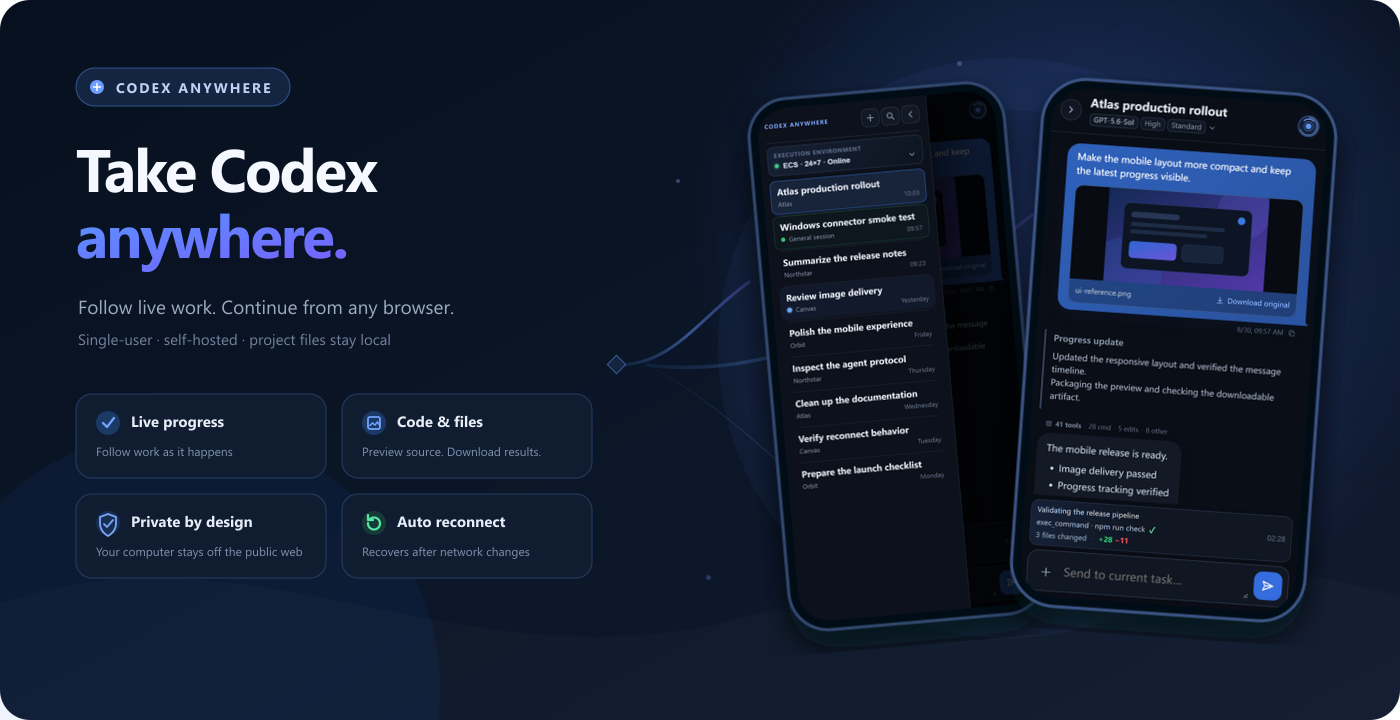
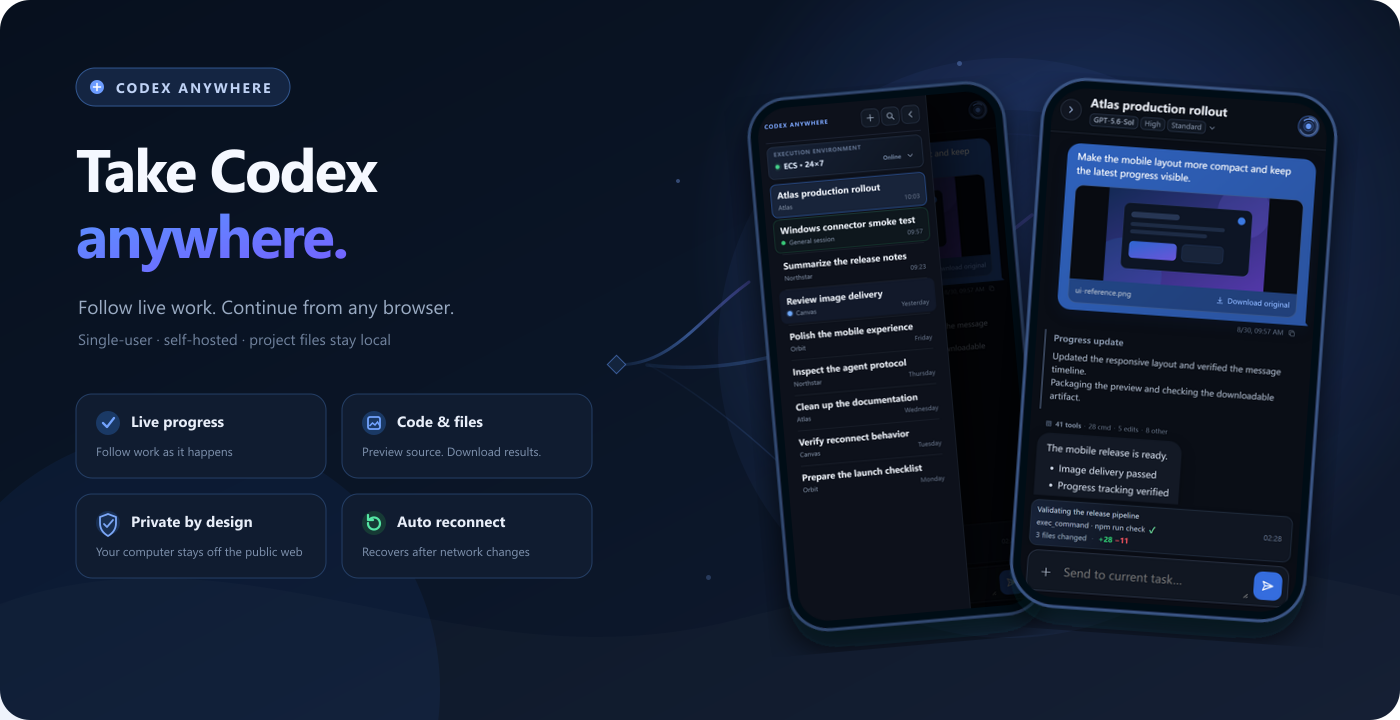
ui: replace native environment selector

Changed region(s): [[0.5529, 0.1833, 0.6757, 0.6722]]

diff --git a/web/src/styles.scss b/web/src/styles.scss
@@ -196,64 +196,47 @@ input:focus, textarea:focus { border-color: $focus !important; box-shadow: 0 0 0
 .environment-picker {
   position: relative;
   width: 100%;
-  height: 48px;
-  flex: 0 0 48px;
+  min-height: 50px;
+  flex: 0 0 auto;
   display: grid;
-  grid-template-columns: auto minmax(0, 1fr) auto;
-  grid-template-rows: 15px 19px;
-  align-items: center;
-  column-gap: 7px;
+  gap: 2px;
   margin: 1px 0 8px;
-  padding: 6px 10px;
+  padding: 6px 7px 7px;
   border: 1px solid #29354a;
   border-radius: 10px;
   background: linear-gradient(135deg, rgba(31, 47, 75, .54), rgba(14, 21, 33, .9));
 
   &:focus-within { border-color: #5884dd; box-shadow: 0 0 0 2px rgba(72, 120, 218, .14); }
-  select {
-    min-width: 0;
-    width: 100%;
-    height: 21px;
-    grid-column: 2;
-    grid-row: 2;
-    padding: 0 17px 0 0;
-    border: 0;
-    color: #dbe7fb;
-    background: transparent;
-    appearance: none;
-    font-size: 12px;
-    font-weight: 700;
-    cursor: pointer;
-    outline: 0;
-  }
-  option { color: #dbe7fb; background: #111827; }
-  svg {
-    width: 14px;
-    height: 14px;
-    grid-column: 3;
-    grid-row: 2;
-    fill: none;
-    stroke: #8094b5;
-    stroke-width: 1.7;
-    stroke-linecap: round;
-    stroke-linejoin: round;
-    pointer-events: none;
-  }
 }
 .environment-picker-label {
-  grid-column: 1 / -1;
-  grid-row: 1;
+  padding: 0 3px;
   color: #687a98;
   font-size: 9px;
   font-weight: 700;
   letter-spacing: .09em;
   text-transform: uppercase;
 }
-.environment-picker-status {
+.environment-picker-select .custom-select-trigger {
+  height: 25px;
+  padding: 0 3px;
+  border-color: transparent;
+  border-radius: 7px;
+  background: transparent;
+
+  > span { display: grid; grid-template-columns: 7px minmax(0, 1fr) auto; align-items: center; gap: 7px; }
+  strong { min-width: 0; color: #dbe7fb; font-size: 12px; font-weight: 700; @include truncate; }
+  small { color: #71839f; font-size: 9px; font-weight: 600; }
+  svg { width: 14px; height: 14px; }
+  &:hover { border-color: rgba(73, 103, 151, .5); background: rgba(23, 36, 57, .7); }
+}
+.environment-picker-select.custom-select.open .custom-select-trigger { background: rgba(16, 27, 44, .92); }
+.environment-picker-select .custom-select-menu { right: -8px; left: -8px; min-width: 0; }
+.environment-picker-select .custom-select-option { min-height: 40px; }
+.environment-picker-select .custom-select-option small { font-size: 9px; }
+.environment-status-dot {
   width: 7px;
   height: 7px;
-  grid-column: 1;
-  grid-row: 2;
+  display: block;
   border-radius: 50%;
   background: #536078;
   box-shadow: 0 0 0 3px rgba(83, 96, 120, .1);
@@ -485,7 +468,9 @@ input:focus, textarea:focus { border-color: $focus !important; box-shadow: 0 0 0
   > i { color: #87abf2; font-style: normal; font-size: 11px; font-weight: 800; text-align: center; }
   &.active { color: #e7eef9; background: #1a2638; }
   &.selected { color: #c6d8fb; }
+  &.has-leading { grid-template-columns: 12px minmax(0, 1fr) 15px; }
 }
+.custom-select-option-leading { display: grid; place-items: center; }
 @keyframes custom-select-open { from { opacity: 0; transform: translateY(-4px) scale(.985); } to { opacity: 1; transform: none; } }
 .permission-mode { position: relative; flex: 0 0 auto; }
 .permission-mode-summary {

diff --git a/web/src/session-sidebar.tsx b/web/src/session-sidebar.tsx
@@ -8,7 +8,7 @@ import {
 } from './app-utils';
 import type { ExecutionState, Session } from './app-types';
 import { t } from './i18n';
-import { SidebarIcon } from './ui-components';
+import { CustomSelect, SidebarIcon } from './ui-components';
 import { environmentDisplayName } from './execution-environments';
 
 type SessionSidebarProps = {
@@ -61,6 +61,16 @@ export const SessionSidebar = memo(function SessionSidebar({
     return [...matches]
       .sort((left, right) => sessionUpdatedAt(right.updatedAt) - sessionUpdatedAt(left.updatedAt));
   }, [search, sessions]);
+  const environmentOptions = useMemo(() => environmentIds.map((id) => {
+    const online = onlineEnvironmentIds.includes(id);
+    return {
+      value: id,
+      label: environmentDisplayName(id),
+      description: online ? t('在线', 'Online') : t('离线', 'Offline'),
+      leading: <span className={`environment-status-dot ${online ? 'online' : 'offline'}`} />,
+    };
+  }), [environmentIds, onlineEnvironmentIds]);
+  const selectedEnvironmentOnline = onlineEnvironmentIds.includes(environmentId);
 
   return (
     <aside className={`sidebar ${open ? 'open' : ''}`} aria-label={t('会话列表', 'Session list')}>
@@ -86,22 +96,23 @@ export const SessionSidebar = memo(function SessionSidebar({
           </button>
         </div>
       </div>
-      <label className="environment-picker">
+      <div className="environment-picker">
         <span className="environment-picker-label">{t('执行环境', 'Execution environment')}</span>
-        <span className={`environment-picker-status ${onlineEnvironmentIds.includes(environmentId) ? 'online' : 'offline'}`} aria-hidden="true" />
-        <select
+        <CustomSelect
+          className="environment-picker-select"
           value={environmentId}
-          onChange={(event) => onEnvironmentChange(event.target.value)}
-          aria-label={t('切换执行环境', 'Switch execution environment')}
-        >
-          {environmentIds.map((id) => (
-            <option value={id} key={id}>
-              {environmentDisplayName(id)} · {onlineEnvironmentIds.includes(id) ? t('在线', 'Online') : t('离线', 'Offline')}
-            </option>
-          ))}
-        </select>
-        <svg viewBox="0 0 16 16" aria-hidden="true"><path d="m4 6 4 4 4-4" /></svg>
-      </label>
+          options={environmentOptions}
+          onChange={onEnvironmentChange}
+          ariaLabel={t('切换执行环境', 'Switch execution environment')}
+          triggerContent={(
+            <>
+              <span className={`environment-status-dot ${selectedEnvironmentOnline ? 'online' : 'offline'}`} aria-hidden="true" />
+              <strong>{environmentDisplayName(environmentId)}</strong>
+              <small>{selectedEnvironmentOnline ? t('在线', 'Online') : t('离线', 'Offline')}</small>
+            </>
+          )}
+        />
+      </div>
       {searchOpen && (
         <label className="compact-search session-search-panel">
           <span className="compact-search-icon"><SidebarIcon name="search" /></span>

diff --git a/web/src/promo-main.tsx b/web/src/promo-main.tsx
@@ -2,7 +2,7 @@ import { createRoot } from 'react-dom/client';
 import { MessageBubble } from './message-bubble';
 import type { TimelineItem } from './history-utils';
 import { PresenceIndicator } from './presence-indicator';
-import { SidebarIcon } from './ui-components';
+import { CustomSelect, SidebarIcon } from './ui-components';
 import './styles.scss';
 import './promo.scss';
 
@@ -180,14 +180,26 @@ function SessionDrawerPreview() {
             <button className="sidebar-tool mobile-only" type="button" tabIndex={-1}><SidebarIcon name="panel-close" /></button>
           </div>
         </div>
-        <label className="environment-picker">
+        <div className="environment-picker">
           <span className="environment-picker-label">Execution environment</span>
-          <span className="environment-picker-status online" aria-hidden="true" />
-          <select value="ecs" onChange={() => {}} tabIndex={-1} aria-label="Execution environment">
-            <option value="ecs">ECS · 24×7 · Online</option>
-          </select>
-          <svg viewBox="0 0 16 16" aria-hidden="true"><path d="m4 6 4 4 4-4" /></svg>
-        </label>
+          <CustomSelect
+            className="environment-picker-select"
+            value="ecs"
+            onChange={() => {}}
+            ariaLabel="Execution environment"
+            options={[{
+              value: 'ecs', label: 'ECS · 24×7', description: 'Online',
+              leading: <span className="environment-status-dot online" />,
+            }]}
+            triggerContent={(
+              <>
+                <span className="environment-status-dot online" aria-hidden="true" />
+                <strong>ECS · 24×7</strong>
+                <small>Online</small>
+              </>
+            )}
+          />
+        </div>
         <nav className="session-list">
           {sessions.map((session) => (
             <button

diff --git a/web/src/ui-components.tsx b/web/src/ui-components.tsx
@@ -8,6 +8,7 @@ export type CustomSelectOption = {
   value: string;
   label: string;
   description?: string;
+  leading?: ReactNode;
 };
 
 export function CustomSelect({
@@ -99,6 +100,9 @@ export function CustomSelect({
     <div
       className={`custom-select${open ? ' open' : ''}${className ? ` ${className}` : ''}`}
       ref={rootRef}
+      onBlur={(event) => {
+        if (!event.currentTarget.contains(event.relatedTarget as Node | null)) setOpen(false);
+      }}
     >
       <button
         ref={triggerRef}
@@ -128,11 +132,12 @@ export function CustomSelect({
               role="option"
               tabIndex={-1}
               aria-selected={index === selectedIndex}
-              className={`custom-select-option${index === activeIndex ? ' active' : ''}${index === selectedIndex ? ' selected' : ''}`}
+              className={`custom-select-option${option.leading ? ' has-leading' : ''}${index === activeIndex ? ' active' : ''}${index === selectedIndex ? ' selected' : ''}`}
               title={option.label}
               onPointerMove={() => setActiveIndex(index)}
               onClick={() => choose(index)}
             >
+              {option.leading && <span className="custom-select-option-leading" aria-hidden="true">{option.leading}</span>}
               <span><strong>{option.label}</strong>{option.description && <small>{option.description}</small>}</span>
               {index === selectedIndex && <i aria-hidden="true">✓</i>}
             </button>

diff --git a/test/protocol.test.ts b/test/protocol.test.ts
@@ -295,7 +295,11 @@ test('session sidebar sorts recent sessions and renders current execution state 
   assert.ok(markup.indexOf('Current task') < markup.indexOf('Older task'));
   assert.match(markup, /session-card active running/);
   assert.match(markup, />beta</);
-  assert.match(markup, /ECS · 24×7 · 在线/);
+  assert.match(markup, /environment-picker-select/);
+  assert.match(markup, /aria-haspopup="listbox"/);
+  assert.match(markup, /ECS · 24×7/);
+  assert.match(markup, />在线</);
+  assert.doesNotMatch(markup, /<select/);
 });
 
 test('session rename dialog exposes a bounded mobile-friendly form', () => {
